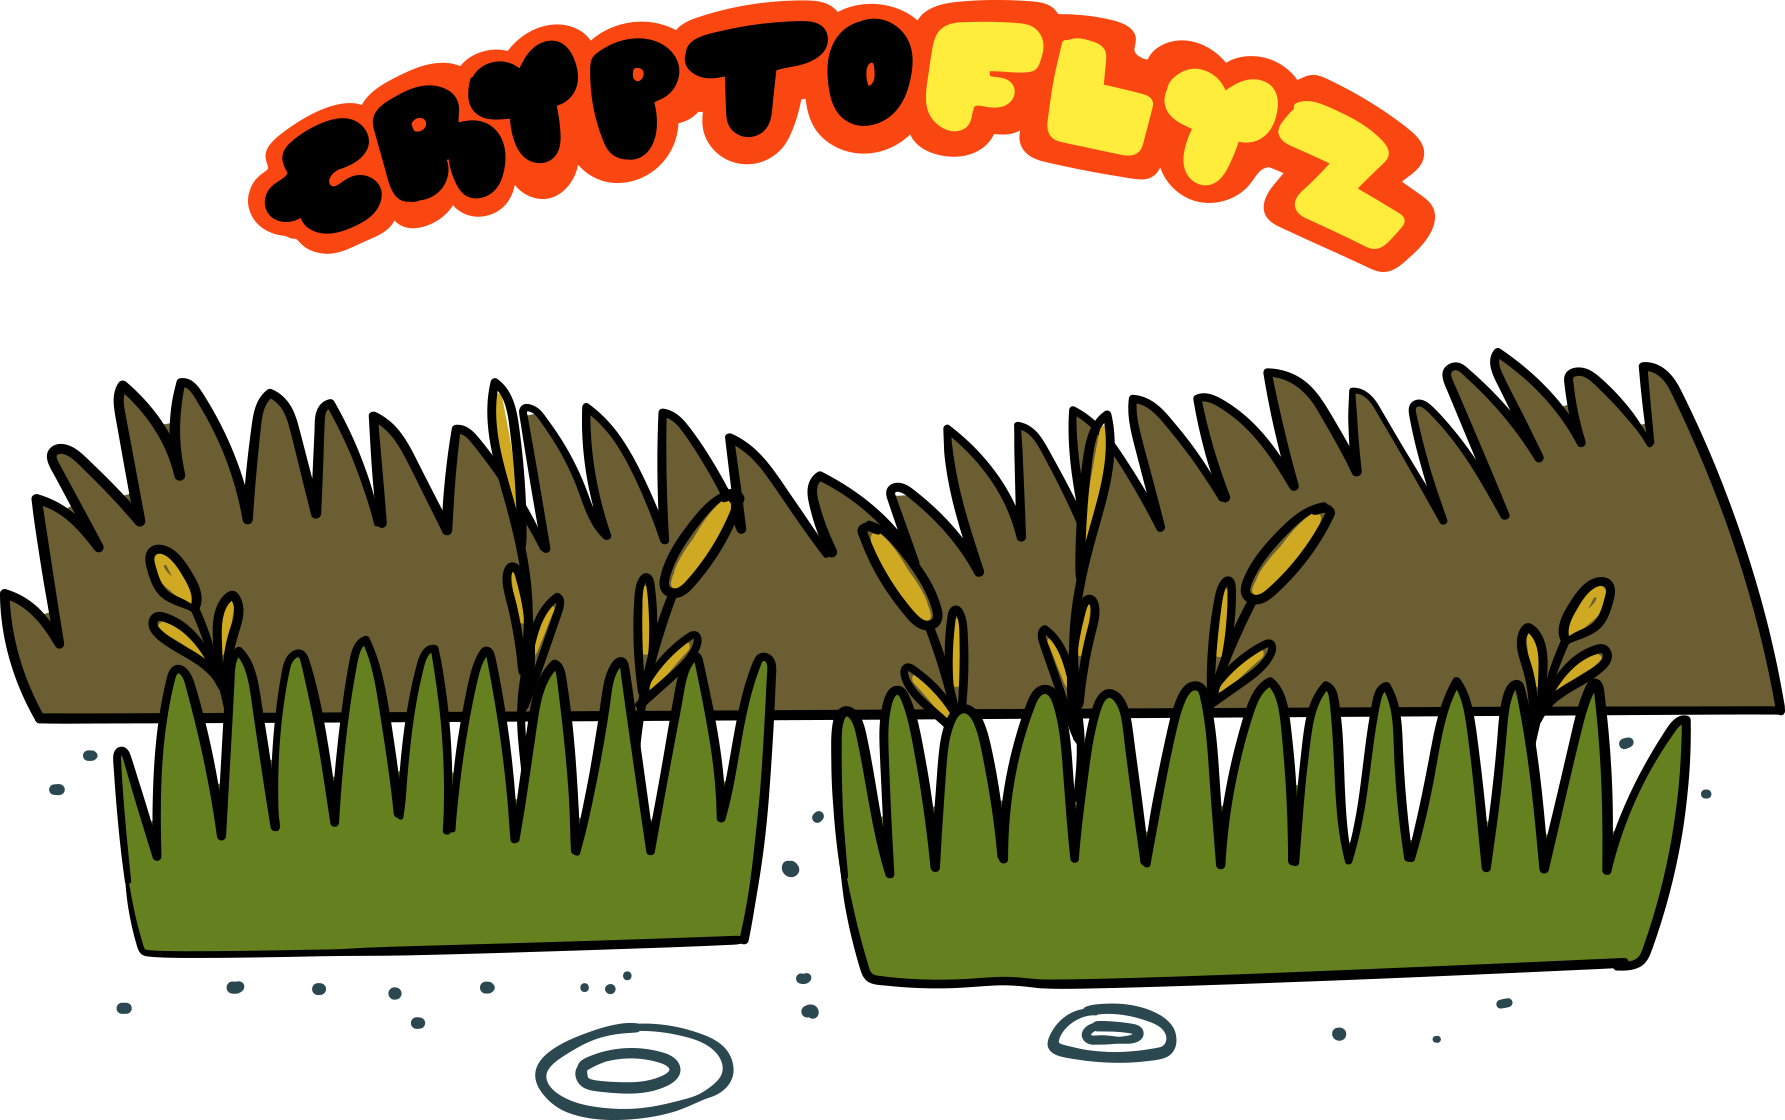
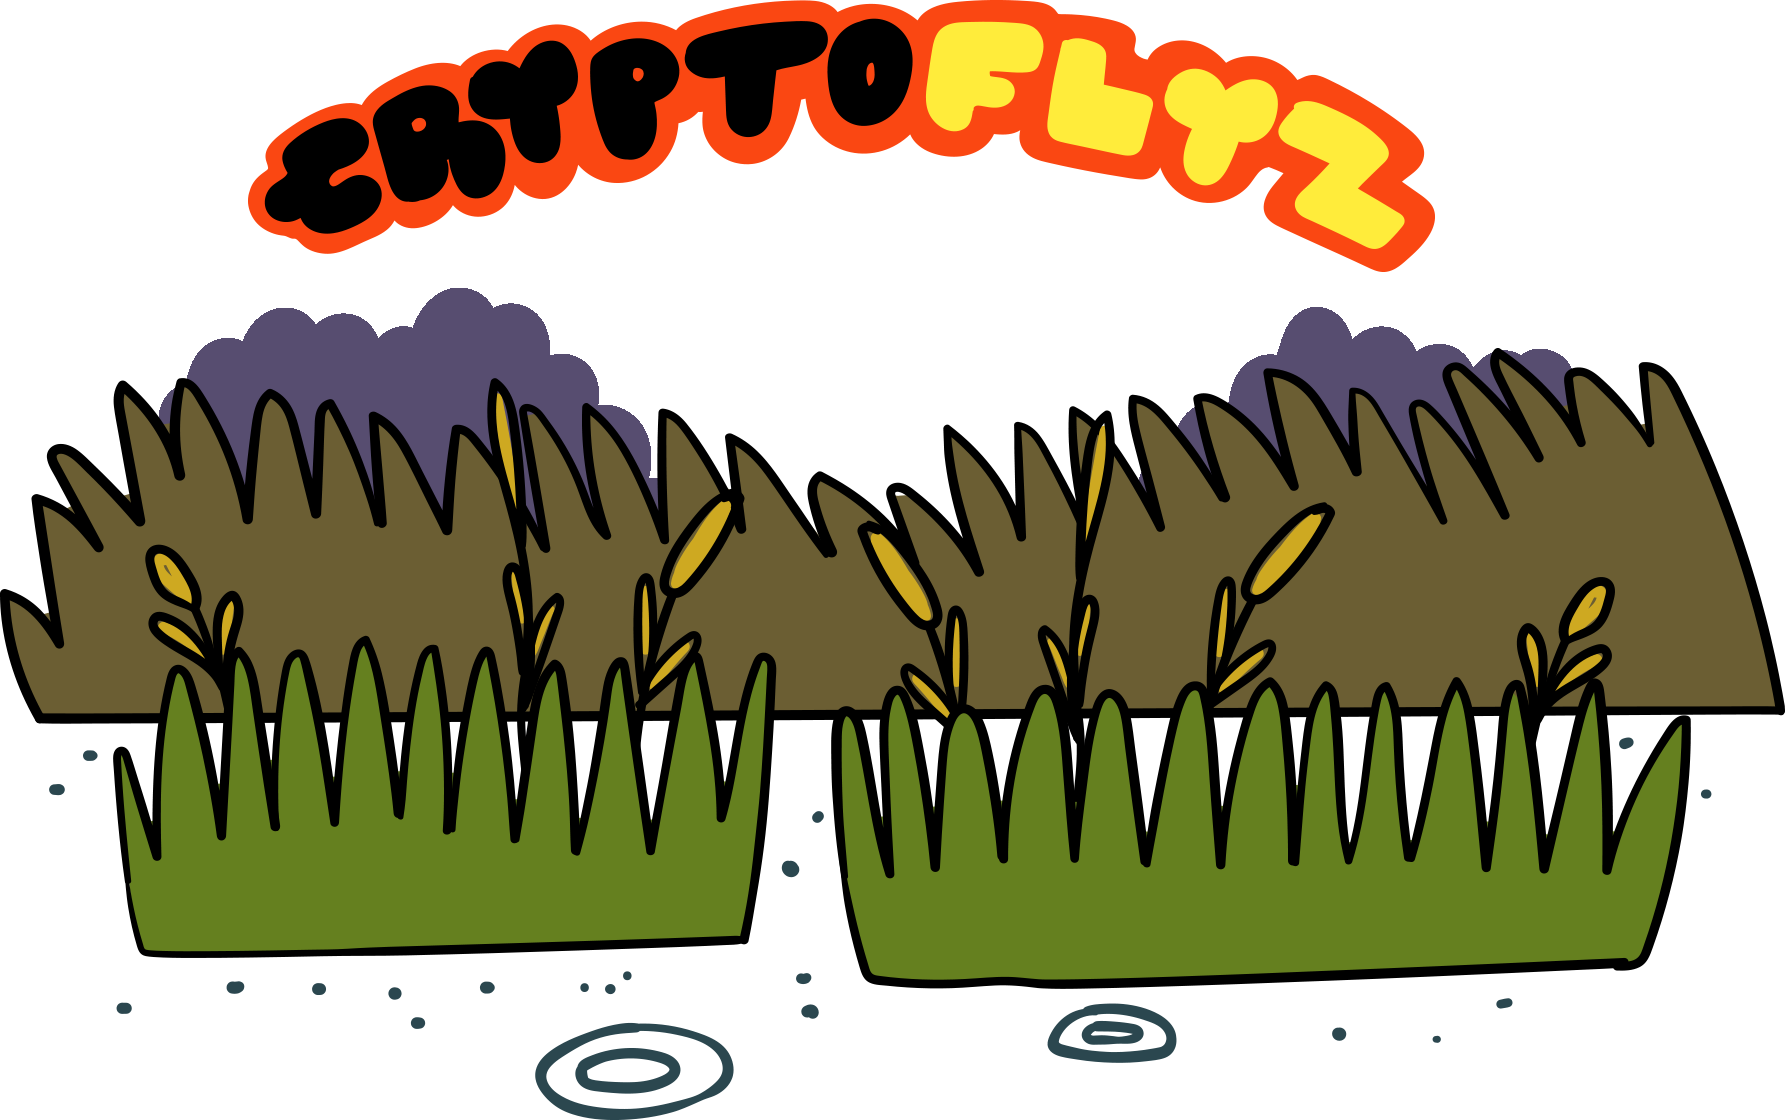
updated background img

diff --git a/pages/index.js b/pages/index.js
@@ -17,29 +17,30 @@ export default function Home() {
           <img src="/BG-image.png" className="image1"/>
           <img src="mint button.gif" className="image2"/>
         </div>
-
-        <p id="subtitle" className={styles.description}>
-          CryptoFlyz are small, randomly generated companions for your CrypToad.<br></br>
-          For every one toad in your wallet, you can claim one Fly.<br></br>
-          <br></br>
-          1 Toad = 1 Fly. 2 Toadz = 2 Flyz and so on.<br></br>
-          <br></br>
-          The Flyz are free to claim (you just pay gas) and come with a range of traits:<br></br>
-          some based on classic Toad traits, some brand new, some common, and some less common.<br></br>
-          <br></br>
-          The mint period will last for two weeks until October 24th, and<br></br>
-          after that, we will decide how to best distribute any left over Flyz to the community.<br></br>
-          <br></br>
-          Finally, enormous thanks and eternal respect to<br></br>
-          Gremplin and the CrypToadz team.<br></br>
-          <br></br>
-          !vibe<br></br>
-          <br></br>
-          <hr/>
-          <br></br>
-          Made By:
-          <br></br>
-        </p>
+        <div>
+          <p id="subtitle" className={styles.description}>
+            CryptoFlyz are small, randomly generated companions for your CrypToad.<br></br>
+            For every one toad in your wallet, you can claim one Fly.<br></br>
+            <br></br>
+            1 Toad = 1 Fly. 2 Toadz = 2 Flyz and so on.<br></br>
+            <br></br>
+            The Flyz are free to claim (you just pay gas) and come with a range of traits:<br></br>
+            some based on classic Toad traits, some brand new, some common, and some less common.<br></br>
+            <br></br>
+            The mint period will last for two weeks until October 24th, and<br></br>
+            after that, we will decide how to best distribute any left over Flyz to the community.<br></br>
+            <br></br>
+            Finally, enormous thanks and eternal respect to<br></br>
+            Gremplin and the CrypToadz team.<br></br>
+            <br></br>
+            !vibe<br></br>
+            <br></br>
+            <hr/>
+            <br></br>
+            Made By:
+            <br></br>
+          </p>
+        </div>
 
         <div className={styles.grid}>
           

diff --git a/styles/globals.css b/styles/globals.css
@@ -38,10 +38,10 @@ body {
 }
 
 .parent {
-  position: absolute;
-  top: 50px;
+  position: relative;
   margin-left: auto;
   margin-right: auto;
+  margin-top: 400px;
 }
 
 .image1 {
@@ -65,24 +65,15 @@ body {
   width: 100px;
 }
 
-.title {
-  font-family: "Boxing Wizards";
-  font-family: "Superscratchy";
-  margin: 0;
-  line-height: 1.15;
-  margin-top: 10px;
-  font-size: 40px;
-  color: white;
-}
-
 #subtitle {
   font-family: "Boxing Wizards";
   font-family: "Superscratchy";
   margin: 0;
+  margin-top: 20px;
   line-height: 2;
-  margin-top: 1050px;
   font-size: 20px;
   color: lightgray;
+  overflow: hidden;
 }
 
 #subtitle2 {
